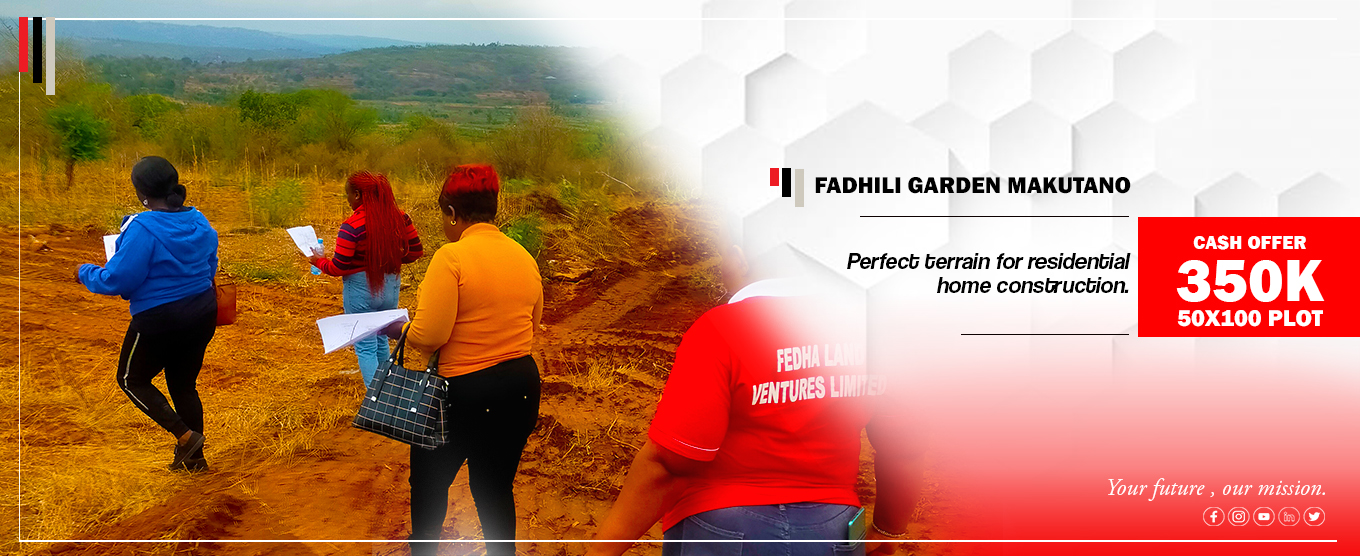
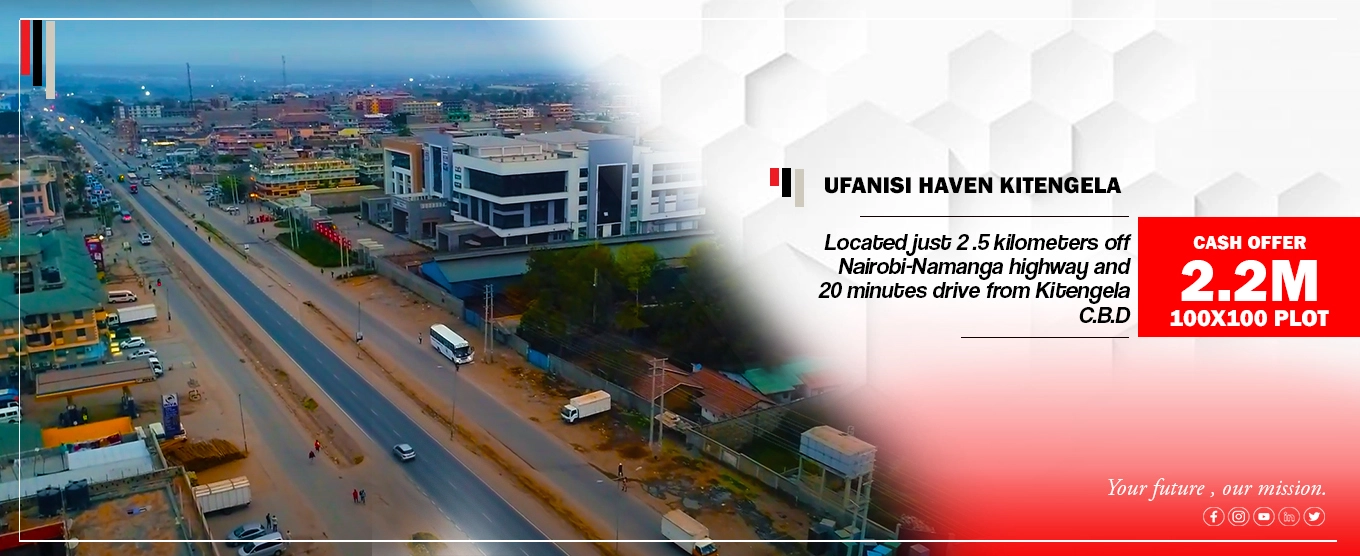
Update

diff --git a/index.html b/index.html
@@ -369,9 +369,9 @@
           Are you looking for prime land to build your dream home not far from Nairobi? Fadhili Garden Makutano - Phase 1 is the place. It offers your family a serene living and a quiet place away from the hectic and noisy city environment. located 5kms off Makutano Junction (new Kenol - Marua dual carriageway)
         </p>
         <ul class="animate">
-            <li><i class="fas fa-check-circle"></i>Cash offer Ksh 350,000</li>
+            <li><i class="fas fa-check-circle"></i>Cash offer Ksh 350,000/=</li>
             <li><i class="fas fa-check-circle"></i>Payment plan inclusive of title deed fee</li>
-            <li><i class="fas fa-check-circle"></i> Installments offer Ksh 385,000 deposit 100k pay balance in 6 months interest free.</li>
+            <li><i class="fas fa-check-circle"></i> Installments offer Ksh 385,000/= deposit 100k pay balance in 6 months interest free.</li>
         </ul>
         <p>
           We have free site visits every Wednesday and Saturday. Book early for logistical planning.
@@ -388,15 +388,15 @@
             Prime 100 x 100 plots
         </h3>
         <p>
-          Are you looking for prime land to build your dream home not far from Nairobi? Fadhili Garden Makutano - Phase 1 is the place. It offers your family a serene living and a quiet place away from the hectic and noisy city environment. located 5kms off Makutano Junction (new Kenol - Marua dual carriageway)
+          Looking for prime land to build your dream home not far from Nairobi? Ufanisi Haven Kitengela is it. It is located just 2.5 kilometers off Nairobi Namanga Highway and just 20 minutes drive from Kitengela CBD. Ufanisi Haven offers you and  your family a serene living and a quiet place away from the hectic and noisy city environment.
         </p>
         <ul class="animate">
-            <li><i class="fas fa-check-circle"></i>Cash offer Ksh 350,000</li>
+            <li><i class="fas fa-check-circle"></i>Cash Price - 2,200,000/= (Kes. 2.2M)</li>
             <li><i class="fas fa-check-circle"></i>Payment plan inclusive of title deed fee</li>
-            <li><i class="fas fa-check-circle"></i> Installments offer Ksh 385,000 deposit 100k pay balance in 6 months interest free.</li>
+            <li><i class="fas fa-check-circle"></i>  Instalments offer Kes. 2.5M deposit 25% balance payable in 6 months interest free.</li>
         </ul>
         <p>
-          We have free site visits every Wednesday and Saturday. Book early for logistical planning.
+          We have free site visits every Wednesday and Saturday. Book early for logistical planning.
         </p>
         <div class="button animate2"><a href="/page/Ufanisi_haven.html">View Property</a></div>
     </div>

diff --git a/page/Property_menu.html b/page/Property_menu.html
@@ -168,9 +168,9 @@
         Are you looking for prime land to build your dream home not far from Nairobi? Fadhili Garden Makutano - Phase 1 is the place. It offers your family a serene living and a quiet place away from the hectic and noisy city environment. located 5kms off Makutano Junction (new Kenol - Marua dual carriageway)
       </p>
       <ul class="animate">
-          <li><i class="fas fa-check-circle"></i>Cash offer Ksh 350,000</li>
+          <li><i class="fas fa-check-circle"></i>Cash offer Ksh 350,000/=</li>
           <li><i class="fas fa-check-circle"></i>Payment plan inclusive of title deed fee</li>
-          <li><i class="fas fa-check-circle"></i> Installments offer Ksh 385,000 deposit 100k pay balance in 6 months interest free.</li>
+          <li><i class="fas fa-check-circle"></i> Installments offer Ksh 385,000/= deposit 100k pay balance in 6 months interest free.</li>
       </ul>
       <p>
         We have free site visits every Wednesday and Saturday. Book early for logistical planning.
@@ -187,13 +187,13 @@
           Prime 100 x 100 plots
       </h3>
       <p>
-        Are you looking for prime land to build your dream home not far from Nairobi? Fadhili Garden Makutano - Phase 1 is the place. It offers your family a serene living and a quiet place away from the hectic and noisy city environment. located 5kms off Makutano Junction (new Kenol - Marua dual carriageway)
+        Looking for prime land to build your dream home not far from Nairobi? Ufanisi Haven Kitengela is it. It is located just 2.5 kilometers off Nairobi Namanga Highway and just 20 minutes drive from Kitengela CBD. Ufanisi Haven offers you and  your family a serene living and a quiet place away from the hectic and noisy city environment.
       </p>
       <ul class="animate">
-          <li><i class="fas fa-check-circle"></i>Cash offer Ksh 350,000</li>
-          <li><i class="fas fa-check-circle"></i>Payment plan inclusive of title deed fee</li>
-          <li><i class="fas fa-check-circle"></i> Installments offer Ksh 385,000 deposit 100k pay balance in 6 months interest free.</li>
-      </ul>
+        <li><i class="fas fa-check-circle"></i>Cash Price - 2,200,000/=</li>
+        <li><i class="fas fa-check-circle"></i>Payment plan inclusive of title deed fee</li>
+        <li><i class="fas fa-check-circle"></i>  Instalments offer Kes. 2.5M deposit 25% balance payable in 6 months interest free.</li>
+    </ul>
       <p>
         We have free site visits every Wednesday and Saturday. Book early for logistical planning.
       </p>

diff --git a/page/Ufanisi_haven.html b/page/Ufanisi_haven.html
@@ -130,7 +130,7 @@
           <h1></h1>
           <p>Fedha Land Ventures</p>
         </div>
-        <img src="/img/banner/property/a.webp" alt="banners">
+        <img src="/img/banner/a.webp" alt="banners">
       </div>
       
       <div class="myslide fade">
@@ -234,17 +234,17 @@
 
   <div class="main-descriprion">
       <div class="information">
-        <h3>350,000/= Cash price</h3>
-        <P><i class="fas fa-check"></i> Are you looking for prime land to build your dream home not far from Nairobi?  Fadhili Garden Makutano - Phase 1 is the place. It offers your family a serene living and a quiet place away from the hectic and noisy city environment .
+        <h3>2,200,000/= Cash price</h3>
+        <P><i class="fas fa-check"></i> Looking for prime land to build your dream home not far from Nairobi? Ufanisi Haven Kitengela is it. It is located just 2.5 kilometers off Nairobi Namanga Highway and just 20 minutes drive from Kitengela CBD. Ufanisi Haven offers you and  your family a serene living and a quiet place away from the hectic and noisy city environment.
         </P>
         <p><i class="fas fa-check"></i>
-          Prime 50X100 plots strategically located only 5kms off Makutano Junction (along the new Kenol - Marua dual carriageway.)
+          Prime 100 x 100 plots.
         </p>
         <p><i class="fas fa-check"></i>
           Payment plan inclusive of title deed fee: <br>
-    350,000Ksh for cash buyers. <br>
-    385,000Ksh (Deposit 100K and pay balance in 6 months). <br>
-    Note: prices are title fee inclusive.
+          💸 Kes. 2.2M for cash buyers. <br>
+          🏦 Kes. 2.5M deposit 25% balance payable in 6 months interest free.(Instalments offer )<br>
+          📍 Note: prices are title fee inclusive.
     
         </p>
       </div>

diff --git a/page/properties.html b/page/properties.html
@@ -242,9 +242,9 @@
         </p>
         <p><i class="fas fa-check"></i>
           Payment plan inclusive of title deed fee: <br>
-    350,000Ksh for cash buyers. <br>
-    385,000Ksh (Deposit 100K and pay balance in 6 months). <br>
-    Note: prices are title fee inclusive.
+          💸 350,000Ksh for cash buyers. <br>
+          🏦 385,000Ksh (Deposit 100K and pay balance in 6 months). <br>
+          📍 Note: prices are title fee inclusive.
     
         </p>
       </div>
